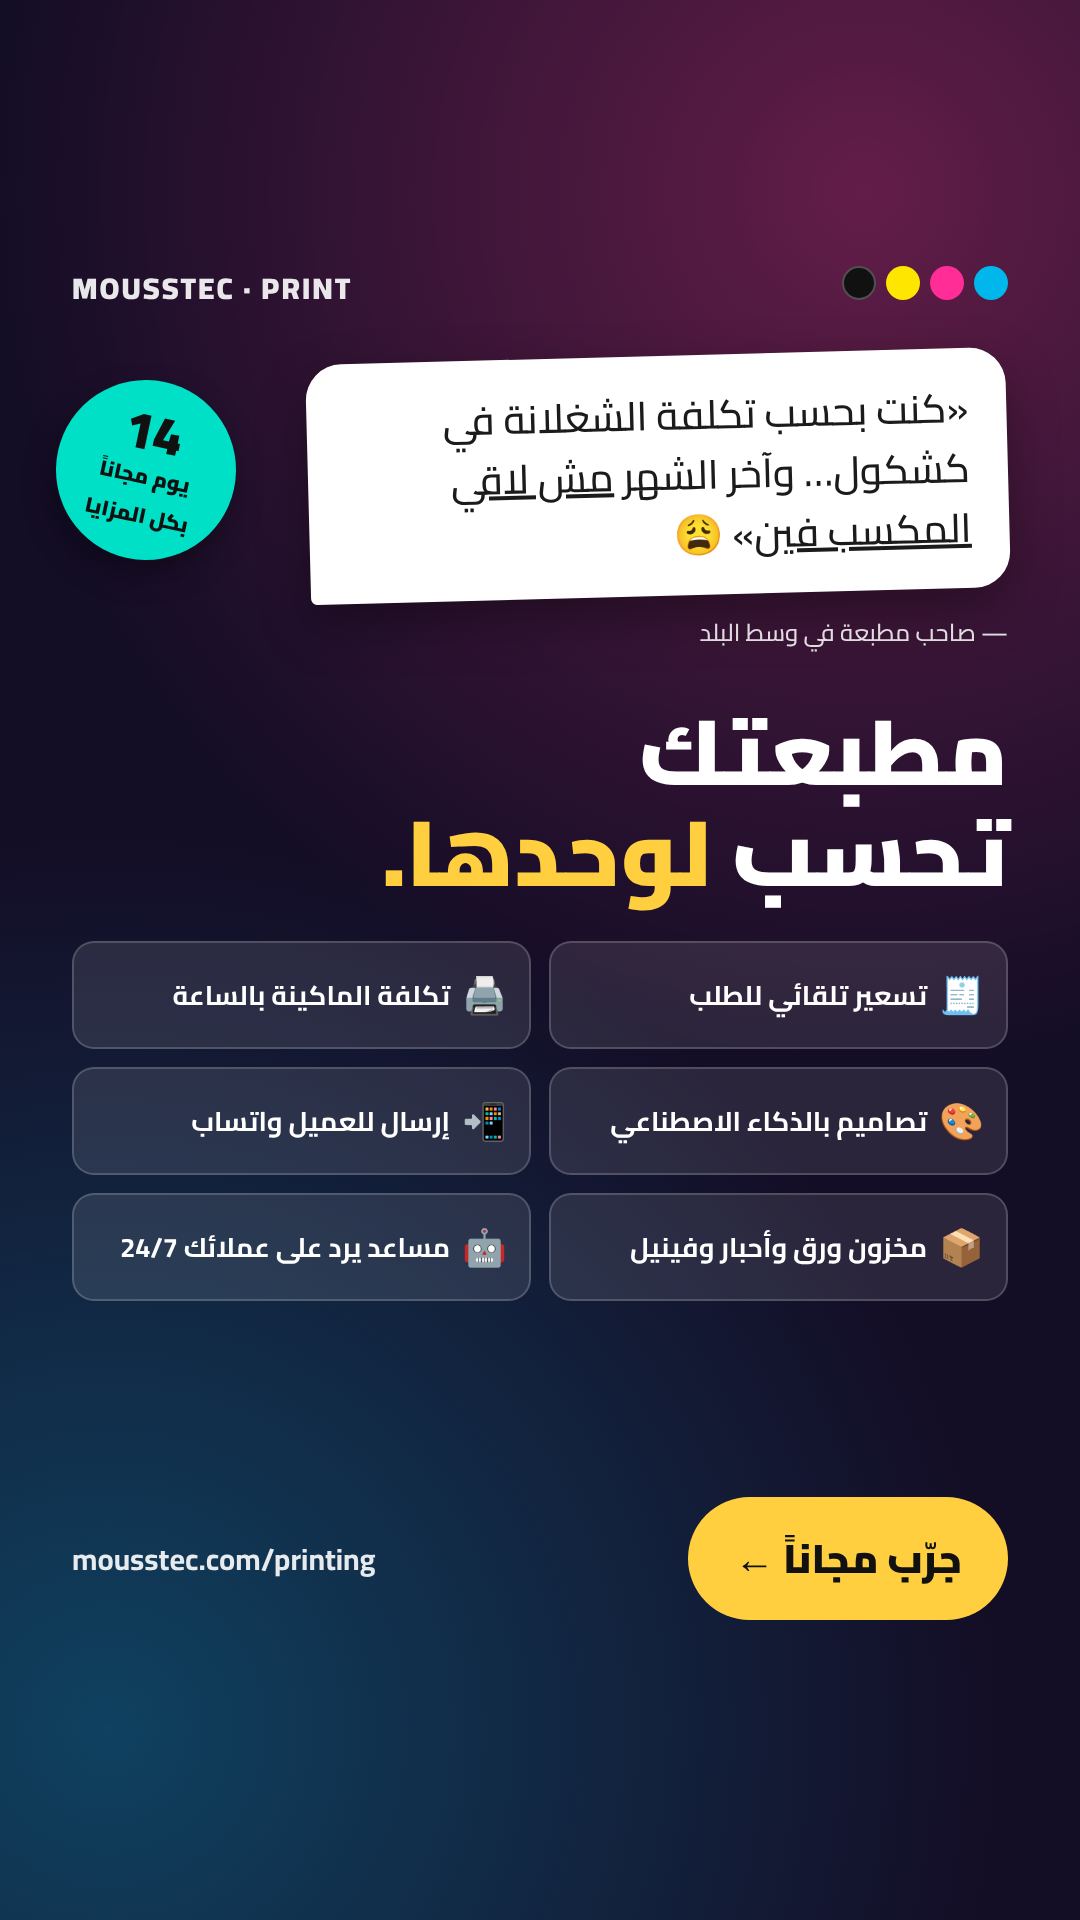
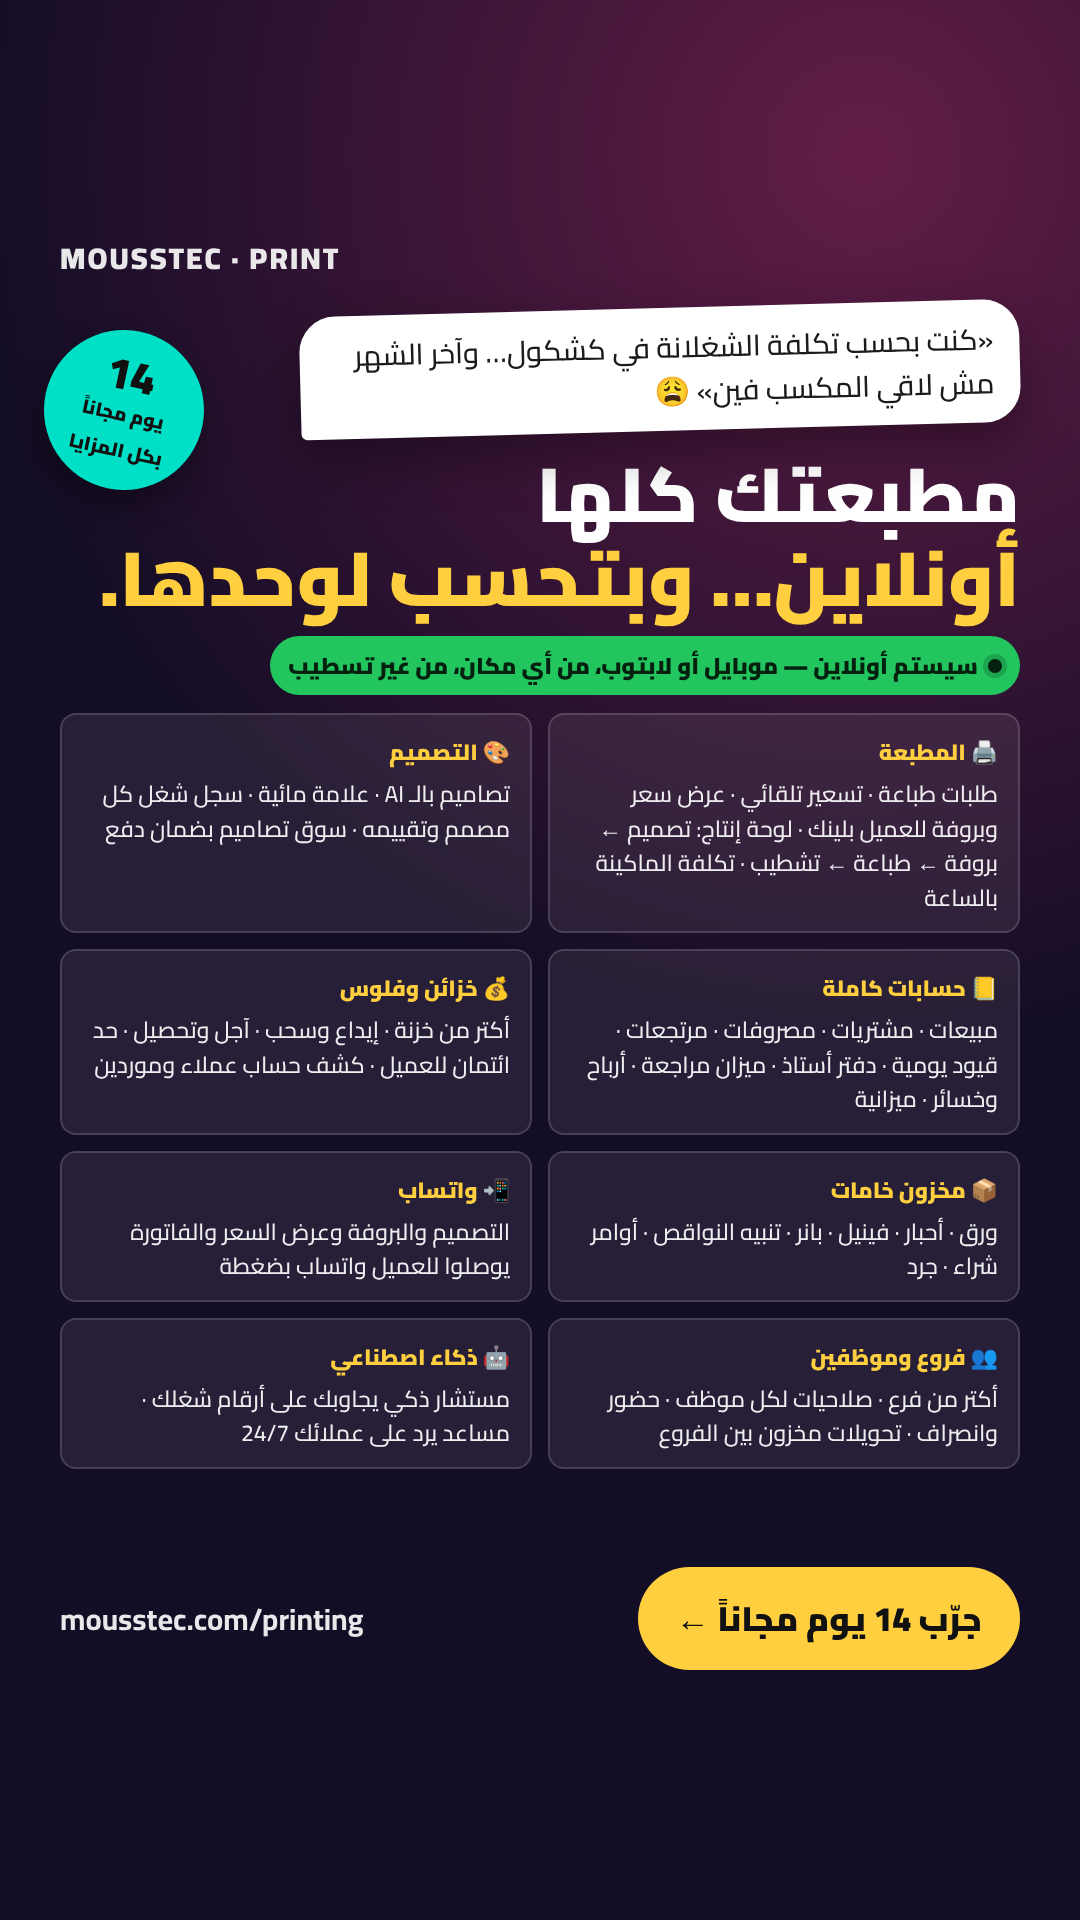
إعلانات: «أونلاين» + كل مميزات كل قطاع (حسابات كاملة، واتساب، فروع، AI…) مقسّمة مجموعات
Claude-Session: https://claude.ai/code/session_01UznEmFMqksHGcdgbuHLP51

diff --git a/docs/ads/print.html b/docs/ads/print.html
@@ -1,23 +1,13 @@
 <html><head><meta charset="utf-8"><link rel="stylesheet" href="base.css"><style>
-body{background:radial-gradient(circle at 80% 10%,#ff3d8b55,transparent 45%),radial-gradient(circle at 10% 90%,#00d1ff44,transparent 45%),#140d26}
-h1 em{color:#ffcf3f}.btn{background:#ffcf3f}.sticker{background:#00e0c6}
-.cmyk{position:absolute;top:76px;right:72px;display:flex;gap:10px}.cmyk i{width:34px;height:34px;border-radius:50%;display:block}
-</style></head><body>
+body{background:radial-gradient(circle at 80% 8%,#ff3d8b55,transparent 45%),#140d26}h1 em,.g h3{color:#ffcf3f}.btn{background:#ffcf3f}.sticker{background:#00e0c6}
+</style></head><body class="biz">
 <div class="sticker"><span class="n">14</span><span class="t">يوم مجاناً<br>بكل المزايا</span></div>
 <div class="wrap">
 <div class="logo">MOUSSTEC · PRINT</div>
-<div class="quote">«كنت بحسب تكلفة الشغلانة في كشكول… وآخر الشهر <u>مش لاقي المكسب فين</u>» 😩</div>
+<div class="quote">«كنت بحسب تكلفة الشغلانة في كشكول… وآخر الشهر مش لاقي المكسب فين» 😩</div>
 <div class="who">— صاحب مطبعة في وسط البلد</div>
-<h1>مطبعتك<br>تحسب <em>لوحدها.</em></h1>
-<div class="feats">
-<div class="f"><b>🧾</b>تسعير تلقائي للطلب</div>
-<div class="f"><b>🖨</b>تكلفة الماكينة بالساعة</div>
-<div class="f"><b>🎨</b>تصاميم بالذكاء الاصطناعي</div>
-<div class="f"><b>📲</b>إرسال للعميل واتساب</div>
-<div class="f"><b>📦</b>مخزون ورق وأحبار وفينيل</div>
-<div class="f"><b>🤖</b>مساعد يرد على عملائك 24/7</div>
-</div>
-<div class="cta"><span class="btn">جرّب مجاناً ←</span><span class="url">mousstec.com/printing</span></div>
-</div>
-<div class="cmyk"><i style="background:#00b7eb"></i><i style="background:#ff2d95"></i><i style="background:#ffe600"></i><i style="background:#111;border:2px solid #fff4"></i></div>
-</body></html>
+<h1>مطبعتك كلها<br><em>أونلاين… وبتحسب لوحدها.</em></h1>
+<div class="online"><i></i>سيستم أونلاين — موبايل أو لابتوب، من أي مكان، من غير تسطيب</div>
+<div class="groups"><div class="g"><h3>🖨 المطبعة</h3><p>طلبات طباعة · تسعير تلقائي · عرض سعر وبروفة للعميل بلينك · لوحة إنتاج: تصميم ← بروفة ← طباعة ← تشطيب · تكلفة الماكينة بالساعة</p></div><div class="g"><h3>🎨 التصميم</h3><p>تصاميم بالـ AI · علامة مائية · سجل شغل كل مصمم وتقييمه · سوق تصاميم بضمان دفع</p></div><div class="g"><h3>📒 حسابات كاملة</h3><p>مبيعات · مشتريات · مصروفات · مرتجعات · قيود يومية · دفتر أستاذ · ميزان مراجعة · أرباح وخسائر · ميزانية</p></div><div class="g"><h3>💰 خزائن وفلوس</h3><p>أكتر من خزنة · إيداع وسحب · آجل وتحصيل · حد ائتمان للعميل · كشف حساب عملاء وموردين</p></div><div class="g"><h3>📦 مخزون خامات</h3><p>ورق · أحبار · فينيل · بانر · تنبيه النواقص · أوامر شراء · جرد</p></div><div class="g"><h3>📲 واتساب</h3><p>التصميم والبروفة وعرض السعر والفاتورة يوصلوا للعميل واتساب بضغطة</p></div><div class="g"><h3>👥 فروع وموظفين</h3><p>أكتر من فرع · صلاحيات لكل موظف · حضور وانصراف · تحويلات مخزون بين الفروع</p></div><div class="g"><h3>🤖 ذكاء اصطناعي</h3><p>مستشار ذكي يجاوبك على أرقام شغلك · مساعد يرد على عملائك 24/7</p></div></div>
+<div class="cta"><span class="btn">جرّب 14 يوم مجاناً ←</span><span class="url">mousstec.com/printing</span></div>
+</div></body></html>

diff --git a/docs/ads/auto.html b/docs/ads/auto.html
@@ -1,20 +1,13 @@
 <html><head><meta charset="utf-8"><link rel="stylesheet" href="base.css"><style>
-body{background:linear-gradient(160deg,#0b1220 0%,#16233f 55%,#3a1d0e 100%)}
-body:before{content:"";position:absolute;inset:0;background:repeating-linear-gradient(135deg,transparent 0 60px,rgba(255,255,255,.02) 60px 62px)}
-h1 em{color:#ff8a2b}.btn{background:#ff8a2b}.sticker{background:#ffd23f}
-</style></head><body>
+body{background:linear-gradient(160deg,#0b1220,#16233f 55%,#3a1d0e)}h1 em,.g h3{color:#ff8a2b}.btn{background:#ff8a2b}.sticker{background:#ffd23f}
+</style></head><body class="biz">
 <div class="sticker"><span class="n">OBD</span><span class="t">تشخيص من<br>المتصفح</span></div>
 <div class="wrap">
 <div class="logo">MOUSSTEC · AUTO</div>
-<div class="quote">«العربية دي دخلت عندنا قبل كده؟ اتغيّر فيها إيه؟»<br><span style="font-size:30px;color:#666">— سؤال بيتسأل في كل مركز صيانة كل يوم 🔧</span></div>
-<h1>مركز الصيانة<br><em>كله في موبايلك.</em></h1>
-<div class="feats">
-<div class="f"><b>🚗</b>كارت صيانة بالشاسيه واللوحة</div>
-<div class="f"><b>🧾</b>فاتورة في ثواني + باركود</div>
-<div class="f"><b>⚙</b>مخزون قطع غيار وتنبيه نقص</div>
-<div class="f"><b>🩺</b>قراءة أكواد الأعطال لحظياً</div>
-<div class="f"><b>👨🔧</b>متابعة إنتاجية كل فني</div>
-<div class="f"><b>📊</b>تقرير أرباح لحظي 24/7</div>
-</div>
+<div class="quote">«العربية دي دخلت عندنا قبل كده؟ اتغيّر فيها إيه؟» 🔧</div>
+<div class="who">— سؤال بيتسأل في كل مركز صيانة كل يوم</div>
+<h1>مركز الصيانة كله<br><em>أونلاين في موبايلك.</em></h1>
+<div class="online"><i></i>سيستم أونلاين — موبايل أو لابتوب، من أي مكان، من غير تسطيب</div>
+<div class="groups"><div class="g"><h3>🚗 الصيانة</h3><p>كارت صيانة بالشاسيه واللوحة · تاريخ كل عربية · توقيع العميل · متابعة إنتاجية الفنيين · عقود أساطيل</p></div><div class="g"><h3>🩺 التشخيص</h3><p>قراءة أكواد الأعطال OBD من المتصفح · تحليل الأعطال بالذكاء الاصطناعي</p></div><div class="g"><h3>📒 حسابات كاملة</h3><p>مبيعات · مشتريات · مصروفات · مرتجعات · قيود يومية · دفتر أستاذ · ميزان مراجعة · أرباح وخسائر · ميزانية</p></div><div class="g"><h3>💰 خزائن وفلوس</h3><p>أكتر من خزنة · إيداع وسحب · آجل وتحصيل · حد ائتمان للعميل · كشف حساب عملاء وموردين</p></div><div class="g"><h3>⚙ قطع الغيار</h3><p>مخزون بالباركود · تنبيه النواقص · أوامر شراء · جرد · كاشير سريع</p></div><div class="g"><h3>📲 واتساب</h3><p>الفاتورة وكشف الحساب وعرض السعر يوصلوا للعميل واتساب · تذكير العملاء بمواعيد الصيانة</p></div><div class="g"><h3>👥 فروع وموظفين</h3><p>أكتر من فرع · صلاحيات لكل موظف · حضور وانصراف · تحويلات مخزون بين الفروع</p></div><div class="g"><h3>🤖 ذكاء اصطناعي</h3><p>مستشار ذكي يجاوبك على أرقام شغلك · مساعد يرد على عملائك 24/7</p></div></div>
 <div class="cta"><span class="btn">ابدأ 14 يوم مجاناً ←</span><span class="url">mousstec.com/automotive</span></div>
 </div></body></html>

diff --git a/docs/ads/parts.html b/docs/ads/parts.html
@@ -1,21 +1,13 @@
 <html><head><meta charset="utf-8"><link rel="stylesheet" href="base.css"><style>
-body{background:linear-gradient(170deg,#06281f 0%,#0c3b2e 50%,#122018 100%)}
-body:before{content:"";position:absolute;inset:0;background:radial-gradient(circle at 15% 85%,#f5b70033,transparent 40%)}
-h1{font-size:84px}h1 em{color:#f5b700}.btn{background:#f5b700}.sticker{background:#fff}
-</style></head><body>
+body{background:linear-gradient(170deg,#06281f,#0c3b2e 50%,#122018)}h1 em,.g h3{color:#f5b700}.btn{background:#f5b700}.sticker{background:#fff}
+</style></head><body class="biz">
 <div class="sticker"><span class="n">B2B</span><span class="t">بيع شحنات<br>لتجار تانيين</span></div>
 <div class="wrap">
 <div class="logo">MOUSSTEC · PARTS</div>
 <div class="quote">«القطعة دي عندنا ولا خلصت؟ ورقمها إيه؟ وفلان عليه كام؟» 🤯</div>
 <div class="who">— كل يوم في محل قطع غيار</div>
-<h1>محلك أو شركة الاستيراد…<br><em>تحت إيدك.</em></h1>
-<div class="feats">
-<div class="f"><b>⚙</b>مخزون بأرقام القطع + باركود</div>
-<div class="f"><b>🔔</b>تنبيه قبل الصنف ما يخلص</div>
-<div class="f"><b>🧾</b>فواتير بيع وشراء + واتساب</div>
-<div class="f"><b>📒</b>كشف حساب عملاء وموردين</div>
-<div class="f"><b>📥</b>طلبات قطع من عملاء جداد</div>
-<div class="f"><b>📊</b>مكسب كل صنف لحظياً</div>
-</div>
+<h1>محلك أو شركة الاستيراد<br><em>أونلاين… تحت إيدك.</em></h1>
+<div class="online"><i></i>سيستم أونلاين — موبايل أو لابتوب، من أي مكان، من غير تسطيب</div>
+<div class="groups"><div class="g"><h3>⚙ المخزون</h3><p>أرقام القطع والباركود · تنبيه النواقص · جرد بالموبايل · تحويل بين الفروع والمخازن</p></div><div class="g"><h3>🧾 البيع</h3><p>فواتير بيع وشراء · كاشير سريع · عروض أسعار · مرتجعات · فاتورة إلكترونية للضرائب</p></div><div class="g"><h3>📒 حسابات كاملة</h3><p>مبيعات · مشتريات · مصروفات · مرتجعات · قيود يومية · دفتر أستاذ · ميزان مراجعة · أرباح وخسائر · ميزانية</p></div><div class="g"><h3>💰 خزائن وفلوس</h3><p>أكتر من خزنة · إيداع وسحب · آجل وتحصيل · حد ائتمان للعميل · كشف حساب عملاء وموردين</p></div><div class="g"><h3>🌍 سوق B2B</h3><p>بيع شحنات لتجار تانيين · طلبات قطع من عملاء جداد · دفع بضمان لحد التسليم</p></div><div class="g"><h3>📲 واتساب</h3><p>الفاتورة وكشف الحساب وعرض السعر يوصلوا للعميل واتساب بضغطة</p></div><div class="g"><h3>👥 فروع وموظفين</h3><p>أكتر من فرع · صلاحيات لكل موظف · حضور وانصراف · تحويلات مخزون بين الفروع</p></div><div class="g"><h3>📊 تقارير</h3><p>مكسب كل صنف · حركة المخزون · الأصناف الراكدة · تقارير لحظية 24/7</p></div></div>
 <div class="cta"><span class="btn">ابدأ 14 يوم مجاناً ←</span><span class="url">mousstec.com/automotive</span></div>
 </div></body></html>

diff --git a/docs/ads/base.css b/docs/ads/base.css
@@ -17,3 +17,23 @@ h1 em{font-style:normal}
 .sticker{position:absolute;left:56px;top:190px;width:180px;height:180px;border-radius:50%;display:flex;flex-direction:column;align-items:center;justify-content:center;font-weight:900;text-align:center;transform:rotate(12deg);box-shadow:0 14px 30px rgba(0,0,0,.35);color:#111}
 .sticker .n{font-size:52px;line-height:1}.sticker .t{font-size:21px}
 .scribble{position:absolute;pointer-events:none}
+.online{display:inline-flex;align-items:center;gap:10px;margin-top:22px;background:#22c55e;color:#04210f;font-weight:900;font-size:27px;padding:10px 22px;border-radius:999px;align-self:flex-start}
+.online i{width:14px;height:14px;border-radius:50%;background:#04210f;display:block;box-shadow:0 0 0 5px #04210f33}
+.biz .quote{font-size:32px;padding:22px 30px;margin-top:28px}
+.biz h1{font-size:72px;margin-top:22px}
+.groups{margin-top:24px;display:grid;grid-template-columns:1fr 1fr;gap:14px}
+.g{background:rgba(255,255,255,.08);border:2px solid rgba(255,255,255,.15);border-radius:20px;padding:14px 18px}
+.g h3{font-size:25px;font-weight:900;margin-bottom:8px}
+.g p{font-size:21px;line-height:1.55;opacity:.92;font-weight:500}
+.biz .cta{margin-top:auto;padding-top:18px}.biz .btn{font-size:34px;padding:20px 38px}
+.biz .wrap{padding:48px 60px}
+.biz .who{display:none}
+.biz .quote{font-size:29px;padding:18px 26px;margin-top:22px;max-width:720px}
+.biz h1{font-size:64px;margin-top:22px}
+.biz .online{font-size:23px;margin-top:16px;padding:8px 18px}
+.biz .groups{gap:10px;margin-top:18px}
+.biz .g{padding:10px 16px;border-radius:16px}
+.biz .g h3{font-size:22px;margin-bottom:4px}
+.biz .g p{font-size:18.5px;line-height:1.5}
+.biz .sticker{top:150px;left:44px;width:160px;height:160px}
+.biz .sticker .n{font-size:44px}.biz .sticker .t{font-size:19px}

diff --git a/docs/ads/brand.html b/docs/ads/brand.html
@@ -19,5 +19,5 @@ h1{margin-top:30px;font-size:84px}h1 em{color:#7b2cbf}.btn{background:#ff4f8b;co
 <div class="price"><span class="big">25</span><span class="s">تصميم بـ 32 جنيه بس — لوجو، فلاير، كارت، بوستر<br><span style="opacity:.75;font-weight:500">وتشوف العينات قبل ما توافق</span></span></div>
 <div class="items"><span>📒 دفاتر</span><span>👕 تيشرتات</span><span>🪵 طباعة على الخشب</span><span>🖊 أقلام</span><span>☕ ماجات</span><span>🪪 كروت بزنس</span><span>✨ أي حاجة في دماغك</span></div>
 <div class="note">انزل طلبك في السوق… <span style="color:#7b2cbf">والمطابع تتنافس وتبعتلك عروض.</span></div>
-<div class="cta"><span class="btn">اطلب دلوقتي ←</span><span class="url">mousstec.com</span></div>
+<div class="online" style="margin-top:28px"><i></i>كله أونلاين — من موبايلك في أي وقت</div><div class="cta"><span class="btn">اطلب دلوقتي ←</span><span class="url">mousstec.com</span></div>
 </div></body></html>

diff --git a/docs/ads/shot.js b/docs/ads/shot.js
@@ -1,6 +1,6 @@
 const {chromium}=require('playwright');(async()=>{const b=await chromium.launch();
 for(const n of ['print','auto','parts','market','brand']){for(const [s,h] of [['feed',1350],['story',1920]]){
 const p=await b.newPage({viewport:{width:1080,height:h}});await p.goto('file://'+__dirname+'/'+n+'.html');
-if(s=='story')await p.addStyleTag({content:'body{height:1920px}.wrap{padding-top:260px;padding-bottom:300px}.sticker{top:380px}.cmyk{top:266px!important}'});
+if(s=='story')await p.addStyleTag({content:'body{height:1920px}.wrap{padding-top:230px;padding-bottom:260px}.sticker{top:380px}.biz .wrap{padding:230px 60px 250px}.biz .sticker{top:330px}.biz .g p{font-size:23px}.biz .g{padding:16px 20px}.biz .groups{gap:16px}.biz h1{font-size:76px}'});
 await p.waitForTimeout(1500);await p.screenshot({path:`${__dirname}/${n}-${s}.png`});await p.close();}}
 await b.close()})();

diff --git a/docs/ads/market.html b/docs/ads/market.html
@@ -21,5 +21,5 @@ h1 em{color:#e2471f}.f{background:#fff;border-color:#f0dcc4;color:#1d1a16;box-sh
 <div class="f"><b>🔒</b>فلوسك محجوزة لحد ما تستلم</div>
 <div class="f"><b>⚡</b>عروض في دقايق</div>
 </div>
-<div class="cta" style="position:relative"><span class="btn">اطلب دلوقتي ←</span><span class="url">mousstec.com</span></div>
+<div class="online" style="margin-top:28px"><i></i>كله أونلاين — من موبايلك في أي وقت</div><div class="cta" style="position:relative"><span class="btn">اطلب دلوقتي ←</span><span class="url">mousstec.com</span></div>
 </div></body></html>
